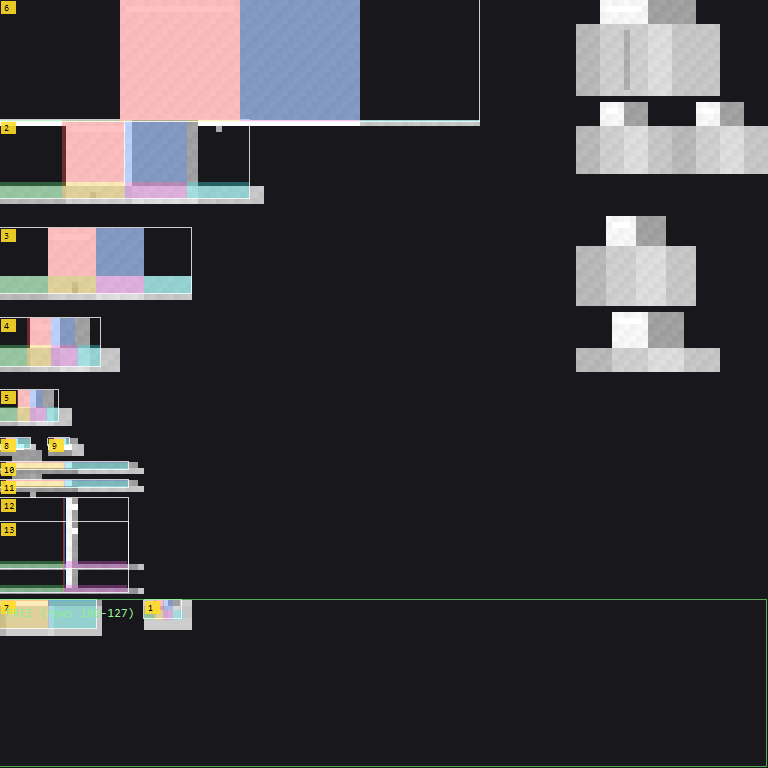
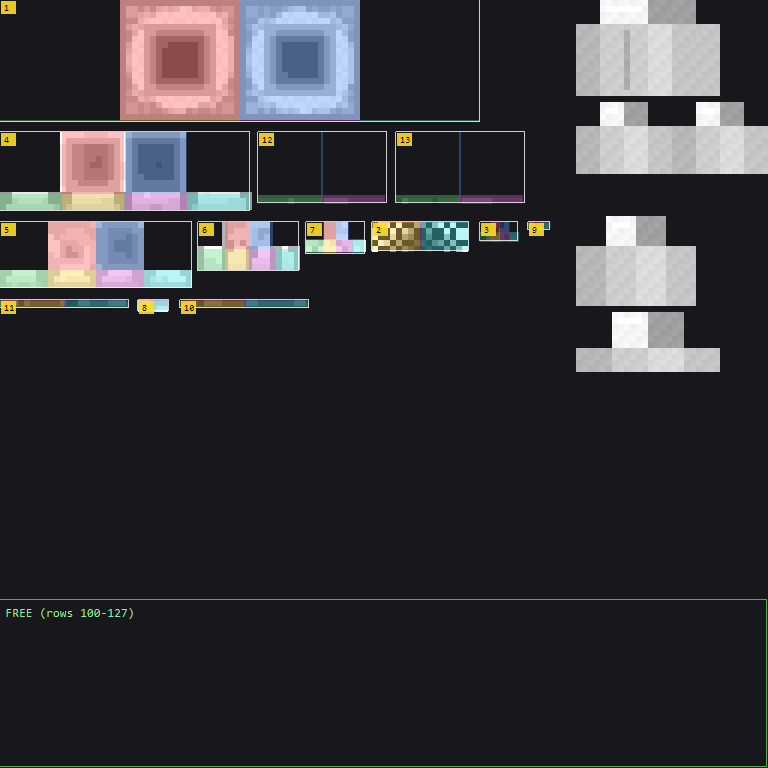
feat(armor): 导入用户手绘法帽贴图（支持镜像 uv 与面旋转；UV空间自动识别 x8）；重建底图与生成区标记

Changed region(s): [[0.0, 0.0, 0.7188, 0.8438], [0.1875, 0.7812, 0.25, 0.8438]]

diff --git a/src/main/java/com/mofengbaizhi/tinkersnewlife/client/model/WizardArmorModel.java b/src/main/java/com/mofengbaizhi/tinkersnewlife/client/model/WizardArmorModel.java
@@ -84,14 +84,12 @@ public class WizardArmorModel extends HumanoidModel<LivingEntity> {
     public WizardArmorModel(ModelPart root) {
         super(root);
         ModelPart head = root.getChild("head");
-        this.hatPlating = new ModelPart[]{
-                head.getChild("hat_tip_ornament"), head.getChild("hat_crown"), head.getChild("hat_tower"),
-                head.getChild("hat_tower_body"), head.getChild("hat_tip") };
-        this.hatMaille = new ModelPart[]{
-                head.getChild("hat_brim"), head.getChild("hat_veil") };
-        this.hatLace = new ModelPart[]{
-                head.getChild("hat_band_plate"), head.getChild("hat_buckle"), head.getChild("hat_band_front"),
-                head.getChild("hat_band_back"), head.getChild("hat_band_left"), head.getChild("hat_band_right") };
+        // ⚠ 下面三行由 tools\import-hat-blockbench.ps1 生成/替换（标记之间勿手改 ✓）
+        // <<< HAT_PARTS (generated) >>>
+        this.hatPlating = new ModelPart[]{ head.getChild("plating_2"), head.getChild("plating_3"), head.getChild("plating_4"), head.getChild("plating_5"), head.getChild("plating_6") };
+        this.hatMaille = new ModelPart[]{ head.getChild("maille_0"), head.getChild("maille_1") };
+        this.hatLace = new ModelPart[]{ head.getChild("lace_7"), head.getChild("lace_8"), head.getChild("lace_9"), head.getChild("lace_10"), head.getChild("lace_11"), head.getChild("lace_12") };
+        // <<< /HAT_PARTS >>>
         this.robe = root.getChild("body").getChild("robe");
         this.sleeveRight = root.getChild("right_arm").getChild("sleeve_right");
         this.sleeveLeft = root.getChild("left_arm").getChild("sleeve_left");
@@ -128,22 +126,22 @@ public class WizardArmorModel extends HumanoidModel<LivingEntity> {
         PartDefinition head = root.getChild("head");
 
         // 法帽：用户原型（2026-09-18 第二次导出，13 个立方体）坐标原样，UV 重新分配到 128x128
-        // —— Blockbench 组 plating ⇒ 槽0 镶板
-        addBox(head, "hat_tip_ornament", 7F, 22.13281F, 13.72266F, 9F, 24.13281F, 15.72266F, 24, 100);
-        addBox(head, "hat_crown", 1.5F, 11.59375F, 1.5F, 14.5F, 15.12891F, 14.5F, 0, 20);
-        addBox(head, "hat_tower", 3F, 14.48828F, 3F, 13F, 18.26953F, 13F, 0, 38);
-        addBox(head, "hat_tower_body", 5.49609F, 18.01172F, 6.41016F, 10.50391F, 22.64844F, 11.95703F, 0, 53);
-        addBox(head, "hat_tip", 6.64258F, 20.62109F, 10.83984F, 9.35742F, 23.83984F, 14.31641F, 0, 65);
-        // —— Blockbench 组 maille ⇒ 槽1 锁链基底
-        addBox(head, "hat_brim", -4.5F, 11.28685F, -4.5F, 20.5F, 11.61888F, 20.5F, 0, 0);
-        addBox(head, "hat_veil", 3F, 5.44922F, 14.64844F, 13F, 11.44922F, 14.74844F, 0, 100);
-        // —— Blockbench 组 lance（系带）⇒ 槽2 法袍系带
-        addBox(head, "hat_band_plate", 6.5F, 12.26953F, 1.33984F, 9.5F, 14.26953F, 1.53984F, 0, 73);
-        addBox(head, "hat_buckle", 7F, 12.625F, 1.15625F, 9F, 13.90625F, 1.45625F, 8, 73);
-        addBox(head, "hat_band_front", 1.37891F, 12.625F, 1.39063F, 14.57891F, 14.125F, 1.59063F, 0, 77);
-        addBox(head, "hat_band_back", 1.37891F, 12.63672F, 14.42969F, 14.57891F, 14.13672F, 14.62969F, 0, 80);
-        addBox(head, "hat_band_left", 1.39453F, 12.58984F, 1.4F, 1.59453F, 14.08984F, 14.6F, 0, 83);
-        addBox(head, "hat_band_right", 14.40547F, 12.64453F, 1.4F, 14.60547F, 14.14453F, 14.6F, 0, 87);
+        // ⚠ 下面这段由 tools\import-hat-blockbench.ps1 生成/替换（标记之间勿手改 ✓）
+        // <<< HAT_ADD_BOX (generated) >>>
+        addBox(head, "maille_0", -4.5F, 11.28685F, -4.5F, 20.5F, 11.61888F, 20.5F, 0, 0);
+        addBox(head, "maille_1", 3F, 5.44922F, 14.64844F, 13F, 11.44922F, 14.74844F, 62, 37);
+        addBox(head, "plating_2", 7F, 22.13281F, 13.72266F, 9F, 24.13281F, 15.72266F, 80, 37);
+        addBox(head, "plating_3", 1.5F, 11.59375F, 1.5F, 14.5F, 15.12891F, 14.5F, 0, 22);
+        addBox(head, "plating_4", 3F, 14.48828F, 3F, 13F, 18.26953F, 13F, 0, 37);
+        addBox(head, "plating_5", 5.49609F, 18.01172F, 6.41016F, 10.50391F, 22.64844F, 11.95703F, 33, 37);
+        addBox(head, "plating_6", 6.64258F, 20.62109F, 10.83984F, 9.35742F, 23.83984F, 14.31641F, 51, 37);
+        addBox(head, "lace_7", 6.5F, 12.26953F, 1.33984F, 9.5F, 14.26953F, 1.53984F, 23, 50);
+        addBox(head, "lace_8", 7F, 12.625F, 1.15625F, 9F, 13.90625F, 1.45625F, 88, 37);
+        addBox(head, "lace_9", 1.37891F, 12.625F, 1.39063F, 14.57891F, 14.125F, 1.59063F, 30, 50);
+        addBox(head, "lace_10", 1.37891F, 12.63672F, 14.42969F, 14.57891F, 14.13672F, 14.62969F, 0, 50);
+        addBox(head, "lace_11", 1.39453F, 12.58984F, 1.4F, 1.59453F, 14.08984F, 14.6F, 43, 22);
+        addBox(head, "lace_12", 14.40547F, 12.64453F, 1.4F, 14.60547F, 14.14453F, 14.6F, 66, 22);
+        // <<< /HAT_ADD_BOX >>>
 
         // 法袍（下摆 + 宽袖）
         root.getChild("body").addOrReplaceChild("robe",

diff --git a/docs/开发备忘录.md b/docs/开发备忘录.md
@@ -12515,3 +12515,48 @@ latest.log:58  Environment: authHost='https://littleskin.cn/api/yggdrasil/authse
 踩坑（都修了 ✓）：
 - PowerShell 里**逗号（数组构造）优先级高于 `+`** ⇒ `@( "a" + x + "b", "c" + y + "d" )` 会被拼成**一行**✗ ⇒ 元素必须加括号或改用函数返回 ✓；
 - **GDI+ 读同一文件后就地 Save** 会失败 ✗ ⇒ 与 `patch-wizard-hat-atlas.ps1` 同样的教训：先 `New-Object Bitmap $src` 复制、再 `$src.Dispose()` ✓（这次又踩了一遍 ✗ 已修 ✓）。
+
+---
+
+## 349. 巫师套装：用户手绘贴图**已导入**（16×16 计划 → 实际 128×128 画布，灰度 ✓）
+
+用户在 Blockbench 里直接画好了法帽（桌面 `wizard_head.json` 8018 字节 + `wizard_head.png` 3795 字节 ✓），
+用 `tools\import-hat-blockbench.ps1` 一键转换并部署 ✓（jar 5,795,672 字节 ✓）。
+
+### 349.1 关键发现：**Blockbench 的 per-face uv 会用"反向坐标"表示镜像** ⚠
+
+这份导出里很多面是**反着写**的，例如帽檐：
+- `up   uv = 3.13,3.13 ~ 0.00,0.00`（两轴都反 ⇒ 180° 镜像 ✓）
+- `down uv = 3.13,3.13 ~ 0.00,6.25`（x 反 ⇒ 水平镜像 ✓）
+
+脚本最初把这种"负宽高"直接 `return` 跳过 ✗ ⇒ **帽檐顶/底两个 25×25 的大面整个丢失** ✗（预览图里一眼就看出来 ✓）。
+修法（与 Minecraft 方块模型同一个约定 ✓）：把 uv 取 `min/max` 当正矩形，再按 `u1>u2` / `v1>v2` 施加 **FlipX / FlipY**，
+最后按 `rotation`（0/90/180/270）旋转 ✓。改完预览里 13 个方块、54 个面全部有图 ✓。
+
+> 教训：**转换脚本要看"面的 uv 顺序"，不能只看面积** ✓；预览图（`-Apply` 之前的 `build\hat-import-preview.png`）是发现这类问题的关键 ✓。
+
+### 349.2 自动换算与质量
+
+| 项 | 值 |
+|----|----|
+| 贴图 | 128×128 PNG，**平均饱和度 0.000 ⇒ 纯灰度** ✓ ⇒ 保留"按三槽材料换色" ✓ |
+| UV 包围盒 | `0,0 ~ 9.38,8.00`（Blockbench 的 auto-UV 把整顶帽子挤在画布左上角 ✓） |
+| 贴图内容包围盒 | `0,0 ~ 74,63`（75×64） |
+| 推定换算 | **uv × 8.0000 + (0,0)** ✓（整数倍 ⇒ 像素风不会糊 ✓） |
+
+⇒ 实际有效分辨率 ≈ 每面几像素~25×25（帽檐顶/底最大 ✓）；我们底图是原生 0.8 倍 ⇒ 略微缩小、无可感损失 ✓。
+
+### 349.3 生成结果
+
+13 个方块 → 命名 `<组>_<序号>` ✓，装箱在 `x<96`（右侧袍/袖/腿/靴区域原样保留 ✓）：
+
+| 组 | 方块 | 槽 |
+|----|------|----|
+| `maille` | `maille_0` 帽檐(0,0)、`maille_1` 垂布(62,37) | 槽1 锁链基底 |
+| `plating` | `plating_2` 坠饰(80,37)、`plating_3` 帽身(0,22)、`plating_4` 塔身(0,37)、`plating_5` 塔身下段(33,37)、`plating_6` 锥顶(51,37) | 槽0 镶板 |
+| `lace` | `lace_7` 扣座(23,50)、`lace_8` 扣(88,37)、`lace_9` 前饰带(30,50)、`lace_10` 后饰带(0,50)、`lace_11` 左饰带(43,22)、`lace_12` 右饰带(66,22) | 槽2 法袍系带 |
+
+### 349.4 教训：生成区标记**必须提交进仓库**
+
+上一轮为了试转换，`git checkout -- WizardArmorModel.java` 把**未提交**的 `// <<< HAT_ADD_BOX >>>` / `// <<< HAT_PARTS >>>`
+标记一起冲掉了 ✗，这次 `-Apply` 报"没找到标记" ✓ ⇒ 已把标记补回并随本次提交入库 ✓（以后 `-Apply` 不会再失效 ✓）。

diff --git a/docs/巫师套装-底图修改指南.md b/docs/巫师套装-底图修改指南.md
@@ -226,4 +226,4 @@ powershell -NoProfile -ExecutionPolicy Bypass -File tools\import-hat-blockbench.
 - **标记之间不要手改**：`WizardArmorModel.java` 里 `HAT_ADD_BOX` / `HAT_PARTS` 两段是生成区，改了几何或贴图请重新跑脚本 ✓；
 - 转换后 → `tools\wizard-atlas-map.ps1` 核对区域 → `.\gradlew build` → 关游戏 → `tools\deploy.ps1`；
 - 方块**数量随便加**（脚本按你导出的 elements 全量重建 ✓），只要都在三个组里；
-- 如果模型里带了**面级 UV 旋转 90/270**，脚本会列出来并跳过那些面 ⇒ 先复位再导出 ✓。
+- 面的 **UV 旋转（0/90/180/270）** 与**镜像 uv**（`u1>u2` / `v1>v2`，Blockbench 里把面拉翻转就会出现）都会自动摆正 ✓（这条踩过坑：最初版本把镜像当成"负宽高"直接跳过 ⇒ 帽檐顶/底两个大面整个丢失 ✗）。
